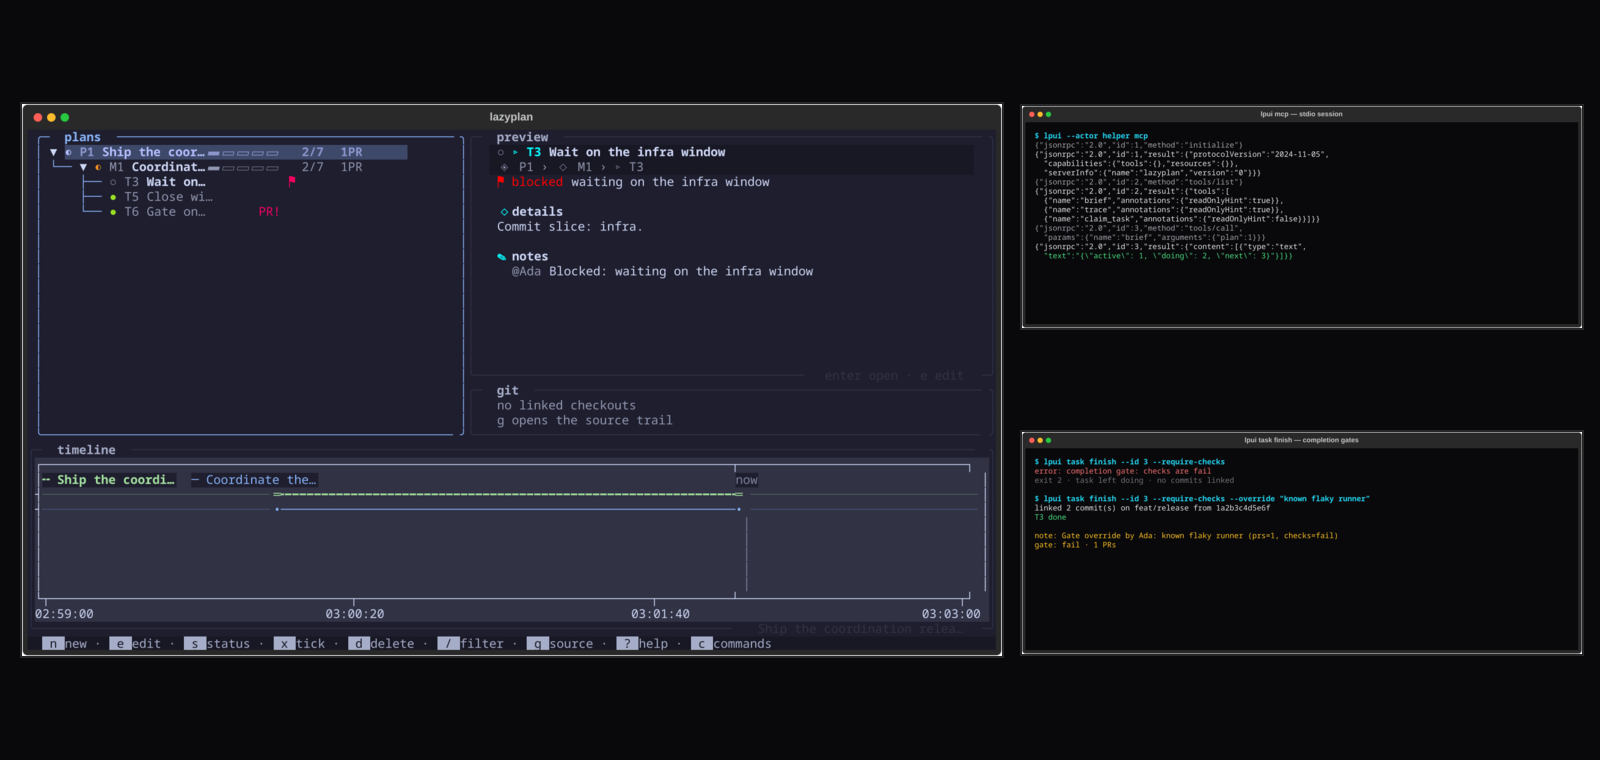
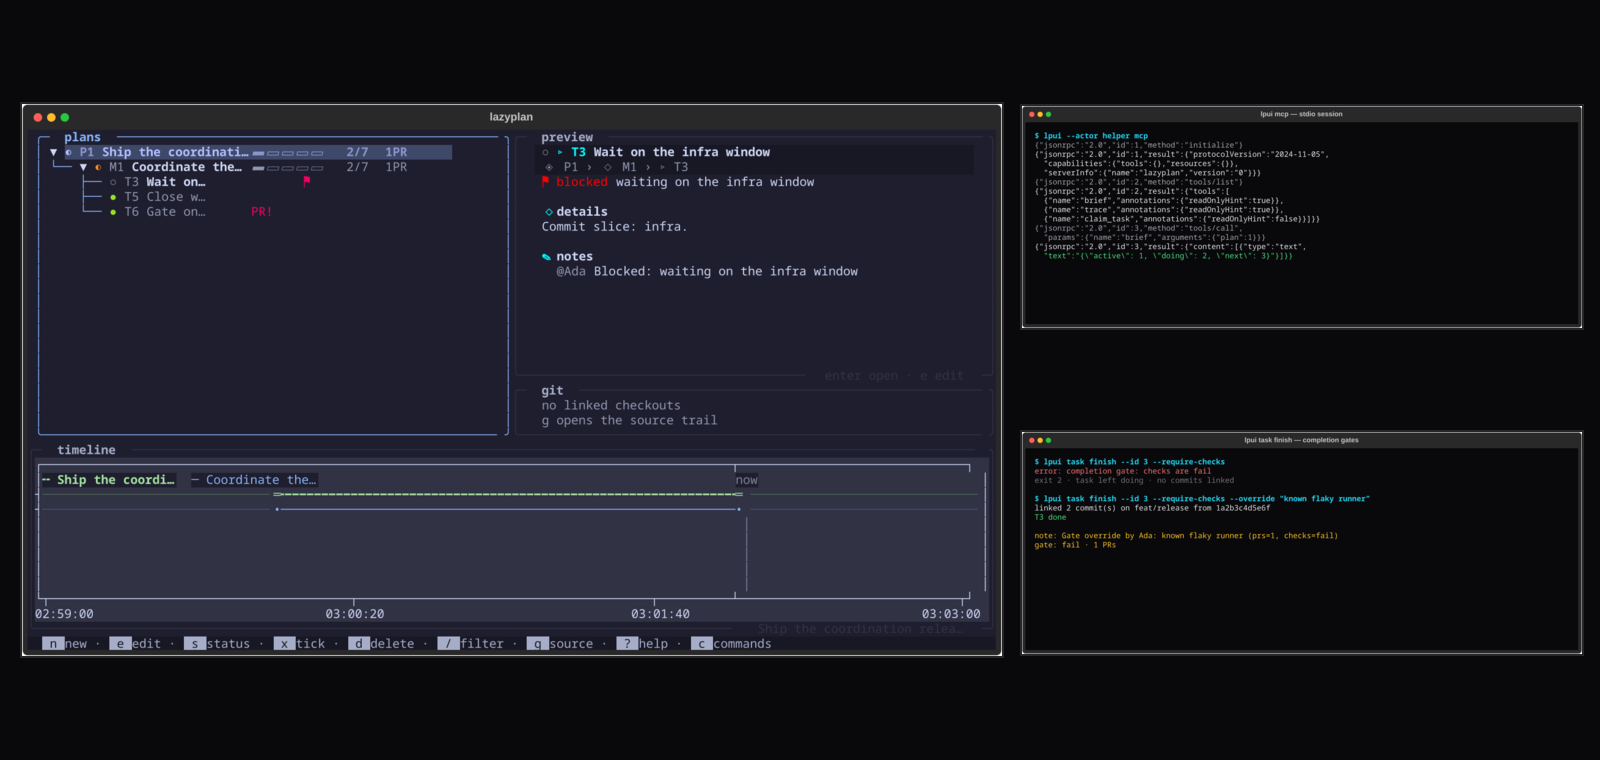
site: refresh copy and screenshots for the balanced shell

diff --git a/site/index.html b/site/index.html
@@ -222,8 +222,8 @@
           <p class="m-0 text-[0.9rem] text-zinc-400">Checkout, commits, pull requests.</p>
         </div>
         <div class="rounded-lg border border-plan-border bg-plan-canvas/60 p-4">
-          <h3 class="mb-1 text-base font-semibold text-white">Sticky preview</h3>
-          <p class="m-0 text-[0.9rem] text-zinc-400">The title stays while the details scroll.</p>
+          <h3 class="mb-1 text-base font-semibold text-white">Balanced split</h3>
+          <p class="m-0 text-[0.9rem] text-zinc-400">Equal panes; rows reflow live.</p>
         </div>
         <div class="rounded-lg border border-plan-border bg-plan-canvas/60 p-4">
           <h3 class="mb-1 text-base font-semibold text-white">Timeline</h3>
